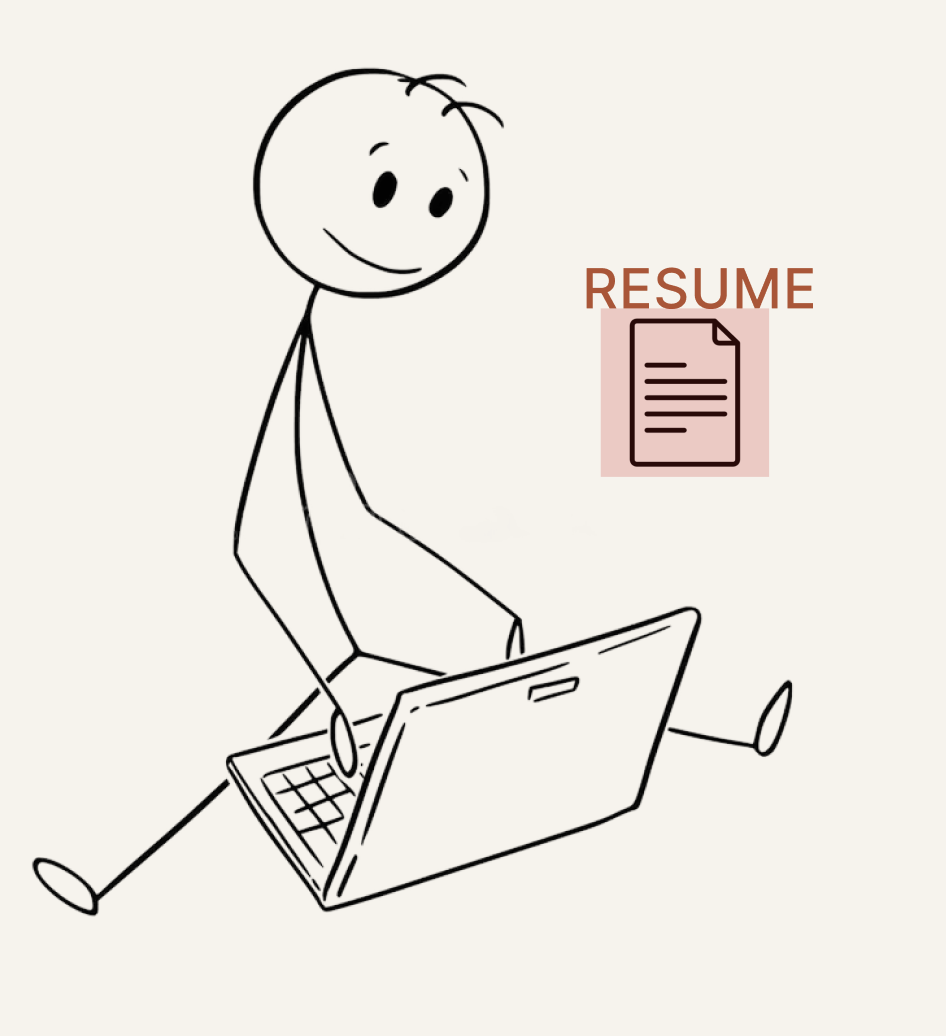
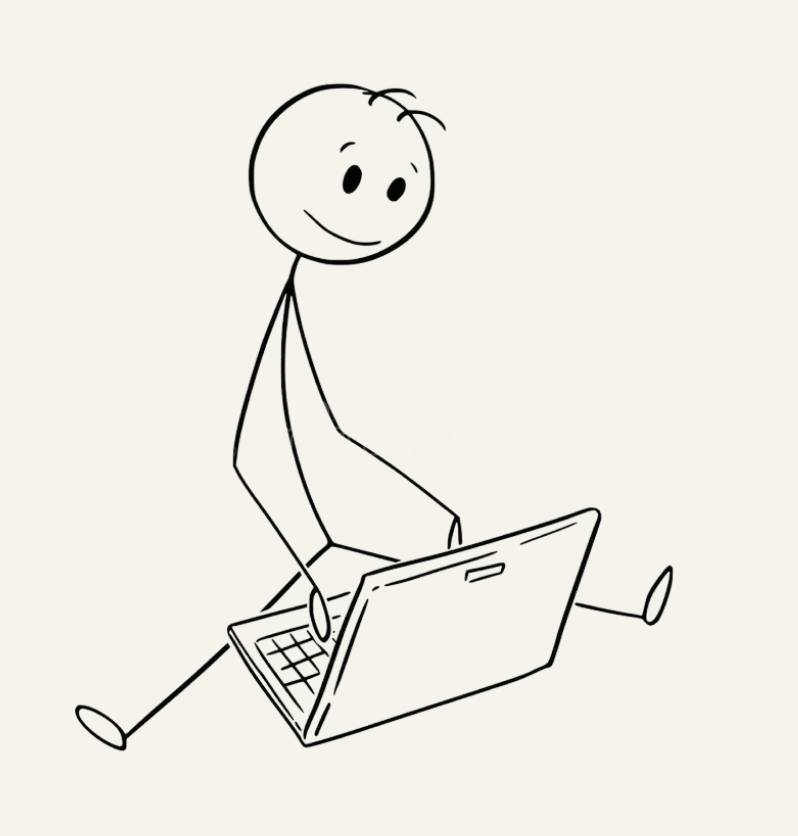
Fix GitHub contact link, replace resume tag with a real button, fix resume PDF case-mismatch, remove Whoop tile from gallery

diff --git a/about.html b/about.html
@@ -34,10 +34,10 @@
       <p>On campus, I started Girls Into Venture Capital's chapter at CMC from the ground up, built through real relationships rather than a plan on paper. That same curious bug led me to build Peináo, a restaurant discovery tool for people with food allergies, so they're never stuck picking from the same three "safe" spots again. It reads menus item by item, flags peanut and gluten risk with an AI classifier, and blends that with real Google reviews into one simple score per restaurant. What started as a scrappy prototype for Claremont Village grew into a full sourcing and scoring pipeline covering every restaurant on St. Marks Place in NYC.</p>
       <p>When I'm not deep in a dataset, you'll probably find me hunting down the next spot to add to my restaurant list. Curious what else I've been building? Take a look around, it's all right here on this site.</p>
     </div>
-    <a class="about-illustration" href="assets/about/resume.pdf" target="_blank" rel="noopener">
+    <div class="about-illustration">
       <img src="assets/aboutme.png" alt="Illustration of Aaria with a laptop" />
-      <span class="resume-tag">Resume</span>
-    </a>
+      <a class="resume-button" href="assets/about/Resume.pdf" target="_blank" rel="noopener">Resume</a>
+    </div>
   </section>
 
   <section class="credentials">

diff --git a/js/home.js b/js/home.js
@@ -7,7 +7,6 @@ const FIGMA_CANVAS_H = 900;
 
 const TILES = [
   { n: "01", img: "assets/home/photo-01.png", loc: "Myka, NY", cap: "Froyo obsession!!", figX: 47, figY: 41, figW: 220, figH: 208 },
-  { n: "02", img: "assets/home/photo-02.png", loc: "iPhone", cap: "An app I open way too often (Whoop)", figX: 317, figY: 46, figW: 220, figH: 260 },
   { n: "03", img: "assets/home/photo-03.png", loc: "Malibu, CA", cap: "My family loves to hike", figX: 720, figY: 53, figW: 442, figH: 260 },
   { n: "04", img: "assets/home/photo-04.png", loc: "Claremont, CA", cap: "Biannual free coffee for my friends", figX: 1197, figY: 235, figW: 159, figH: 275 },
   { n: "05", img: "assets/home/photo-05.png", loc: null, cap: "Me!", figX: 100, figY: 289, figW: 167, figH: 277 },

diff --git a/css/about.css b/css/about.css
@@ -24,10 +24,11 @@
 }
 
 .about-illustration {
-  position: relative;
   flex: 0 0 auto;
-  display: block;
-  text-decoration: none;
+  display: flex;
+  flex-direction: column;
+  align-items: center;
+  gap: 16px;
 }
 
 .about-illustration img {
@@ -36,15 +37,19 @@
   height: auto;
 }
 
-.resume-tag {
-  position: absolute;
-  top: 24%;
-  left: 65%;
-  font-size: 13px;
+.resume-button {
+  display: inline-block;
+  background: var(--color-accent);
+  color: #fff;
+  font-size: 14px;
   font-weight: 500;
-  text-transform: uppercase;
-  letter-spacing: 0.06em;
-  color: var(--color-accent);
+  text-decoration: none;
+  padding: 10px 24px;
+  border-radius: 8px;
+}
+
+.resume-button:hover {
+  opacity: 0.9;
 }
 
 /* ---------- Credentials ---------- */

diff --git a/contact.html b/contact.html
@@ -50,7 +50,7 @@
       <span class="contact-badge">&lt;/&gt;</span>
       <div class="contact-text">
         <span class="contact-label">GitHub</span>
-        <a class="contact-value" href="https://github.com/aariachandwani" target="_blank" rel="noopener">github.com/aariachandwani</a>
+        <a class="contact-value" href="https://github.com/aaria1204" target="_blank" rel="noopener">github.com/aaria1204</a>
       </div>
     </div>
 
